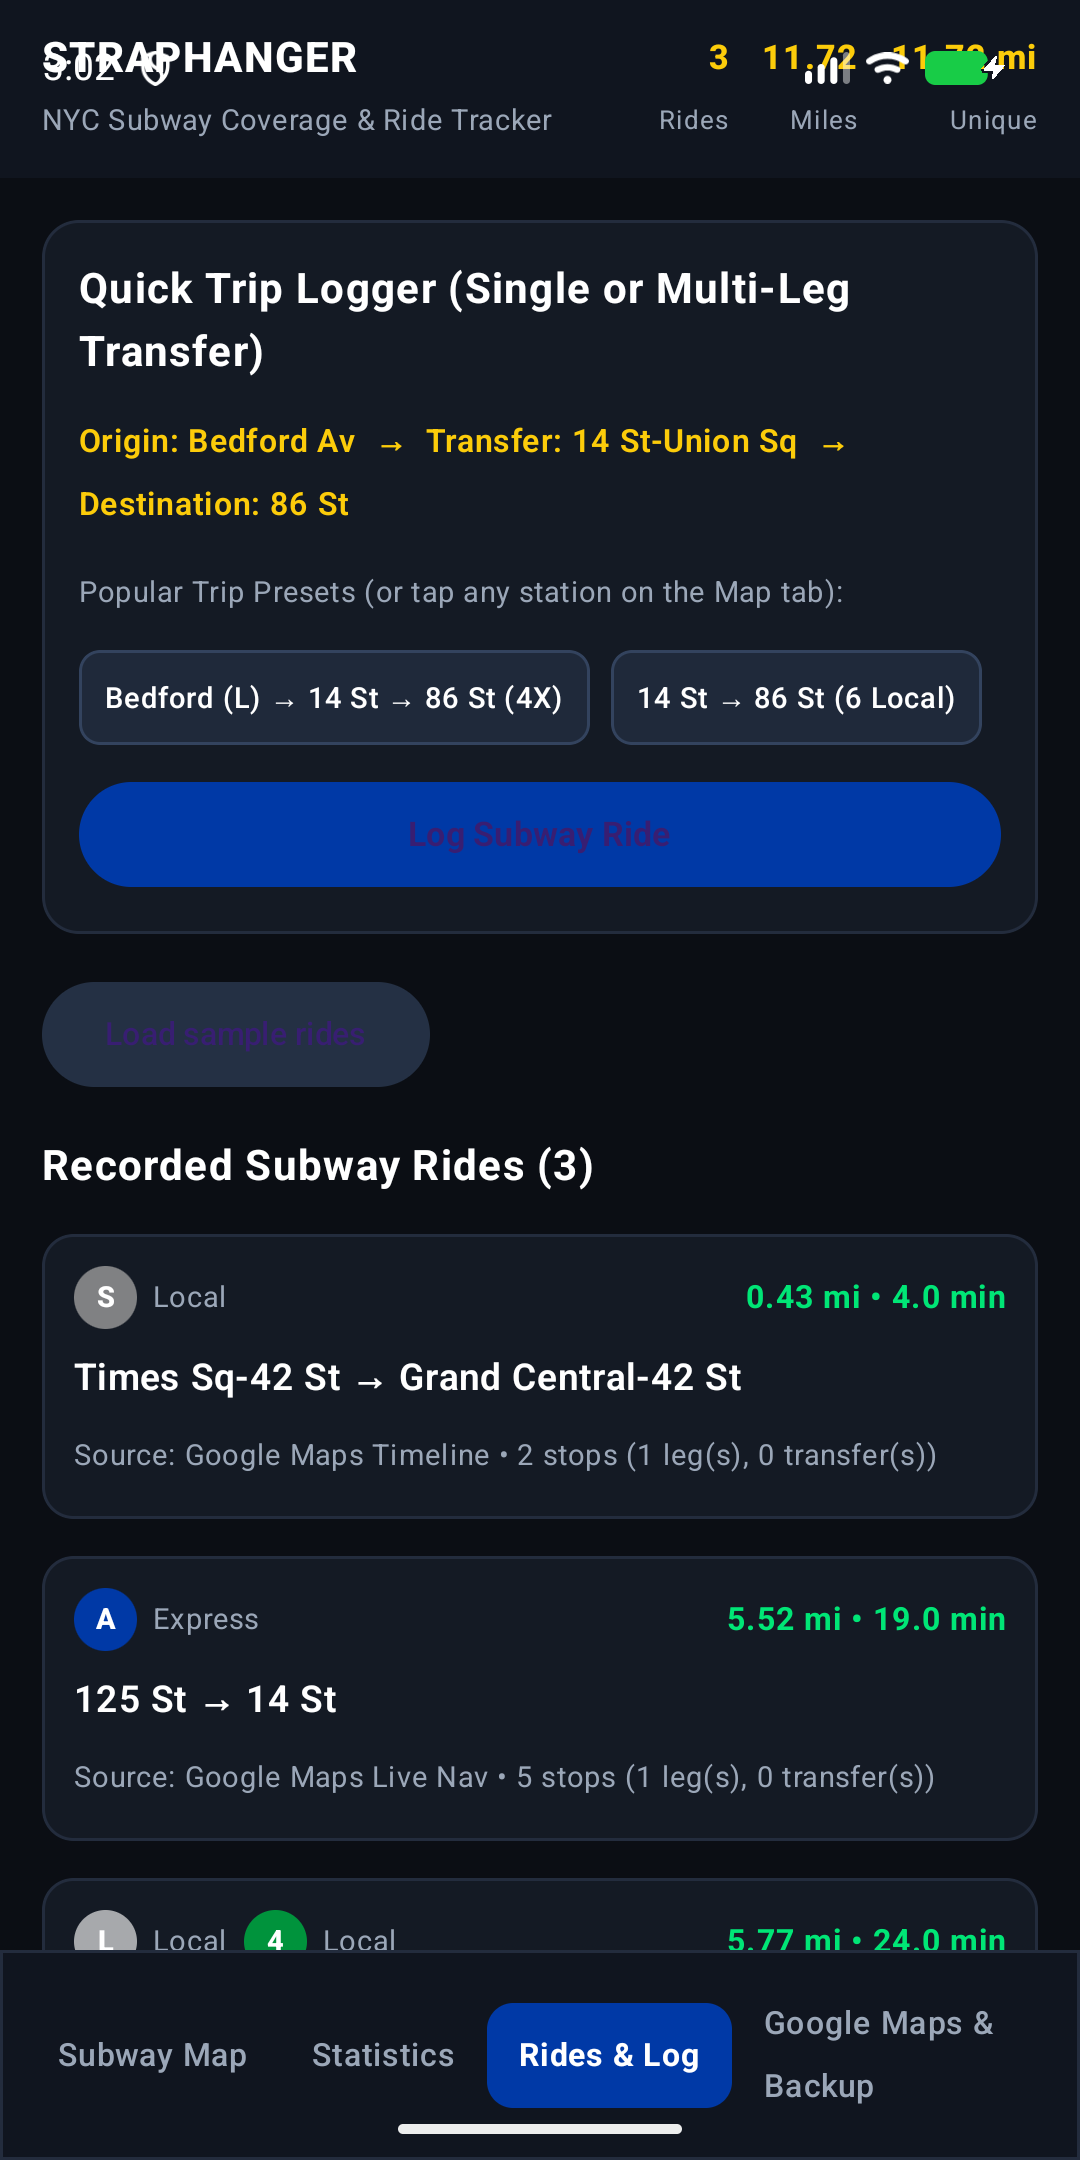
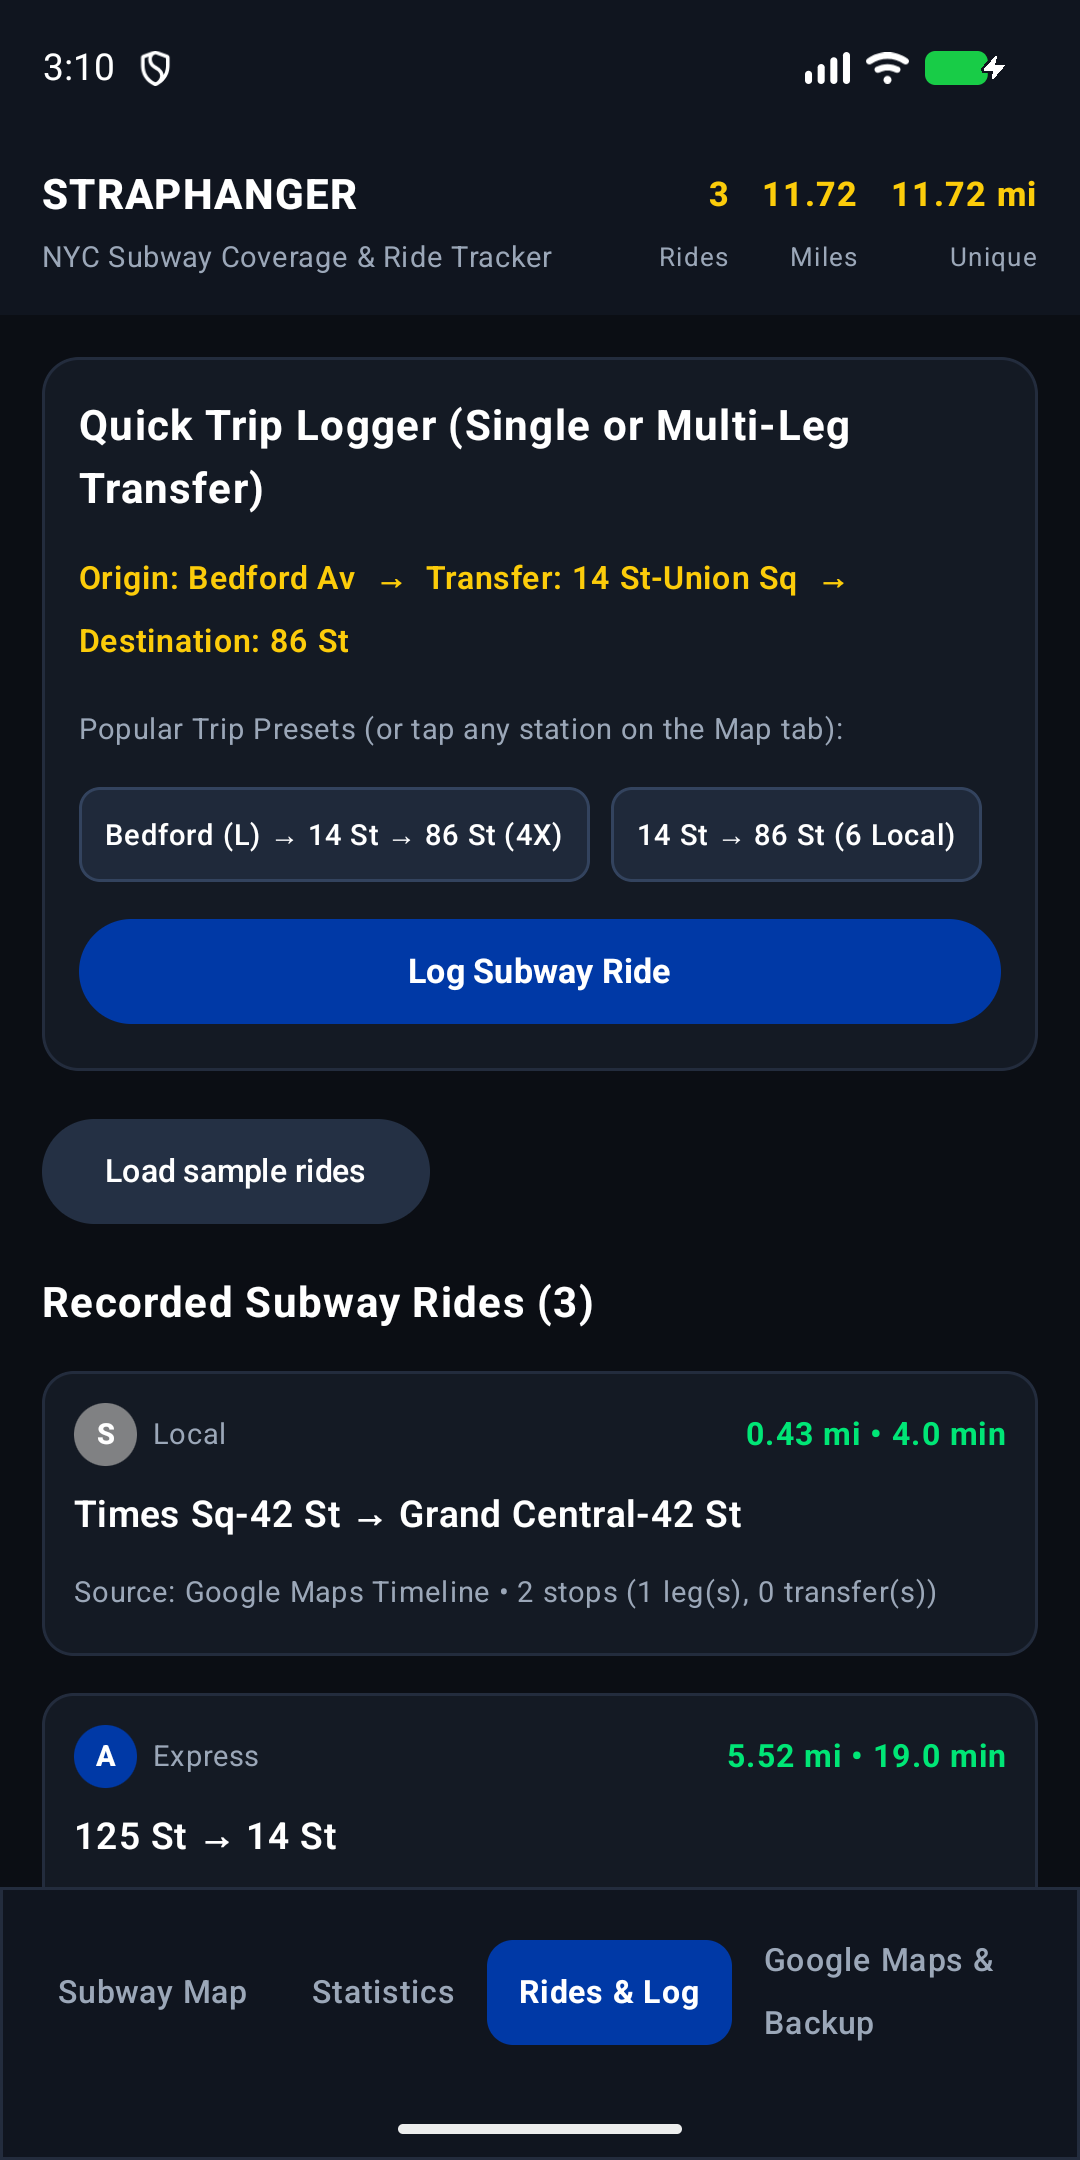
fix: apply system bar insets and readable button colors; retake store screenshots

diff --git a/shared/src/commonMain/kotlin/com/straphanger/app/App.kt b/shared/src/commonMain/kotlin/com/straphanger/app/App.kt
@@ -7,16 +7,26 @@ import androidx.compose.foundation.layout.Arrangement
 import androidx.compose.foundation.layout.Box
 import androidx.compose.foundation.layout.Column
 import androidx.compose.foundation.layout.Row
+import androidx.compose.foundation.layout.WindowInsets
+import androidx.compose.foundation.layout.WindowInsetsSides
+import androidx.compose.foundation.layout.displayCutout
+import androidx.compose.foundation.layout.navigationBars
+import androidx.compose.foundation.layout.only
+import androidx.compose.foundation.layout.statusBars
+import androidx.compose.foundation.layout.union
+import androidx.compose.foundation.layout.windowInsetsPadding
 import androidx.compose.foundation.layout.fillMaxSize
 import androidx.compose.foundation.layout.fillMaxWidth
 import androidx.compose.foundation.layout.padding
 import androidx.compose.foundation.shape.RoundedCornerShape
+import androidx.compose.material3.LocalContentColor
 import androidx.compose.material3.MaterialTheme
 import androidx.compose.material3.SnackbarHost
 import androidx.compose.material3.SnackbarHostState
 import androidx.compose.material3.Text
 import androidx.compose.material3.darkColorScheme
 import androidx.compose.runtime.Composable
+import androidx.compose.runtime.CompositionLocalProvider
 import androidx.compose.runtime.LaunchedEffect
 import androidx.compose.runtime.collectAsState
 import androidx.compose.runtime.getValue
@@ -106,9 +116,16 @@ fun App(
         colorScheme = darkColorScheme(
             background = MtaColors.DarkBg,
             surface = MtaColors.CardBg,
-            primary = Color(0xFF0039A6)
+            primary = Color(0xFF0039A6),
+            onPrimary = Color.White,
+            secondary = Color(0xFF2B3548),
+            onSecondary = Color.White,
+            onBackground = MtaColors.TextPrimary,
+            onSurface = MtaColors.TextPrimary,
+            onSurfaceVariant = MtaColors.TextSecondary
         )
     ) {
+      CompositionLocalProvider(LocalContentColor provides MtaColors.TextPrimary) {
         Column(
             modifier = Modifier
                 .fillMaxSize()
@@ -120,6 +137,7 @@ fun App(
                 modifier = Modifier
                     .fillMaxWidth()
                     .background(Color(0xFF10151F))
+                    .windowInsetsPadding(WindowInsets.statusBars.union(WindowInsets.displayCutout).only(WindowInsetsSides.Top + WindowInsetsSides.Horizontal))
                     .padding(horizontal = 16.dp, vertical = 10.dp),
                 horizontalArrangement = Arrangement.SpaceBetween,
                 verticalAlignment = Alignment.CenterVertically
@@ -292,6 +310,7 @@ fun App(
                     .fillMaxWidth()
                     .background(Color(0xFF10151F))
                     .border(1.dp, MtaColors.CardBorder)
+                    .windowInsetsPadding(WindowInsets.navigationBars.union(WindowInsets.displayCutout).only(WindowInsetsSides.Bottom + WindowInsetsSides.Horizontal))
                     .padding(horizontal = 10.dp, vertical = 8.dp),
                 horizontalArrangement = Arrangement.SpaceEvenly,
                 verticalAlignment = Alignment.CenterVertically
@@ -324,6 +343,7 @@ fun App(
                 }
             }
         }
+      }
     }
 }
 

diff --git a/shared/src/commonMain/kotlin/com/straphanger/app/ui/rides/RidesAndCaptureScreen.kt b/shared/src/commonMain/kotlin/com/straphanger/app/ui/rides/RidesAndCaptureScreen.kt
@@ -100,7 +100,7 @@ fun RidesHistoryAndLoggerScreen(
                     Row(horizontalArrangement = Arrangement.spacedBy(8.dp)) {
                         Button(
                             onClick = { onConfirmAmbiguousRide(rec.ride.rideId, "4", true) },
-                            colors = ButtonDefaults.buttonColors(containerColor = Color(0xFF00933C)),
+                            colors = ButtonDefaults.buttonColors(containerColor = MtaColors.ActionGreen),
                             modifier = Modifier.testTag("confirm_express_btn")
                         ) {
                             Text("Confirm 4 Express", fontSize = 12.sp, fontWeight = FontWeight.Bold)
@@ -422,7 +422,7 @@ fun DataSourcesAndSyncScreen(
             Button(
                 onClick = { timelineLauncher.launch() },
                 enabled = !uiState.timelineImportInProgress,
-                colors = ButtonDefaults.buttonColors(containerColor = Color(0xFF00933C)),
+                colors = ButtonDefaults.buttonColors(containerColor = MtaColors.ActionGreen),
                 modifier = Modifier.testTag("pick_timeline_file_btn")
             ) {
                 Text("Choose Timeline file…", fontSize = 12.sp, fontWeight = FontWeight.Bold)

diff --git a/androidApp/src/main/kotlin/com/straphanger/app/MainActivity.kt b/androidApp/src/main/kotlin/com/straphanger/app/MainActivity.kt
@@ -1,10 +1,13 @@
 package com.straphanger.app
 
 import android.content.Intent
+import android.graphics.Color
 import android.os.Bundle
 import android.util.Log
 import androidx.activity.ComponentActivity
 import androidx.activity.compose.setContent
+import androidx.activity.SystemBarStyle
+import androidx.activity.enableEdgeToEdge
 import androidx.compose.runtime.mutableStateOf
 import androidx.compose.runtime.getValue
 import com.mikepenz.aboutlibraries.ui.compose.android.produceLibraries
@@ -26,6 +29,11 @@ class MainActivity : ComponentActivity() {
     private val captureAccess = mutableStateOf(CaptureAccessState())
 
     override fun onCreate(savedInstanceState: Bundle?) {
+        // The app is always dark, so the system bar icons are always light.
+        enableEdgeToEdge(
+            statusBarStyle = SystemBarStyle.dark(Color.TRANSPARENT),
+            navigationBarStyle = SystemBarStyle.dark(Color.TRANSPARENT)
+        )
         super.onCreate(savedInstanceState)
         FileKit.init(this)
         handleIncomingShareIntent(intent)

diff --git a/shared/src/commonMain/kotlin/com/straphanger/app/ui/stats/StatsDashboardScreen.kt b/shared/src/commonMain/kotlin/com/straphanger/app/ui/stats/StatsDashboardScreen.kt
@@ -153,7 +153,7 @@ fun StatsDashboardScreen(
                         modifier = Modifier
                             .weight(1f)
                             .clip(RoundedCornerShape(8.dp))
-                            .background(if (active) Color(0xFF00933C) else Color(0xFF1E2636))
+                            .background(if (active) MtaColors.ActionGreen else Color(0xFF1E2636))
                             .clickable { onVisitFilterModeChange(mode) }
                             .padding(vertical = 8.dp)
                             .testTag("toggle_visit_${mode.name}"),

diff --git a/shared/src/commonMain/kotlin/com/straphanger/app/ui/theme/MtaColors.kt b/shared/src/commonMain/kotlin/com/straphanger/app/ui/theme/MtaColors.kt
@@ -27,6 +27,9 @@ object MtaColors {
     val AccentGold = Color(0xFFFCCC0A)
     val AccentGreen = Color(0xFF00E676)
 
+    /** Filled-button green; white text on it is 5.5:1 (the line green 0xFF00933C gives 4.0:1). */
+    val ActionGreen = Color(0xFF007A33)
+
     fun parseHexColor(hex: String): Color {
         val clean = hex.removePrefix("#").trim()
         val rgb = clean.toLongOrNull(16) ?: return Color(0xFF0039A6)
